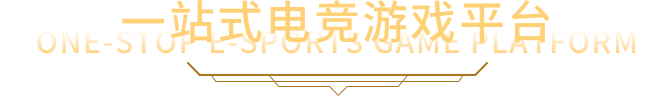
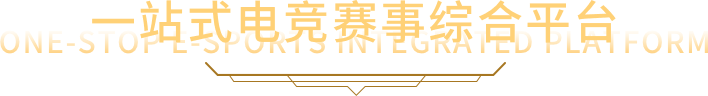
首页文字修改

diff --git a/V2/index.php b/V2/index.php
@@ -31,7 +31,7 @@ $return = curl_post($config['api_get'],json_encode($data),1);
         <div class="width banner_w">
             <div class="theme">
                 <img src="<?php echo $config['site_url'];?>/images/logo_write.png" alt="" class="logo_whole">
-                <span>一站式电竞游戏平台</span>
+                <span>一站式电竞赛事综合平台</span>
                 <div class="download">
                     <a href="<?php echo $return['defaultConfig']['data']['ios_url']['value'];?>" class="download_ios" target="_blank">
                         <img src="<?php echo $config['site_url'];?>/images/download_ios.png" alt="" class="img">
@@ -75,7 +75,7 @@ $return = curl_post($config['api_get'],json_encode($data),1);
         </div>
     </div>
     <div class="platform">
-        <img class="platform_top" src="<?php echo $config['site_url'];?>/images/platform_top.png" alt="">
+        <img class="platform_top" src="<?php echo $config['site_url'];?>/images/platform_top.png?v=1" alt="">
         <img class="platform_logo" src="<?php echo $config['site_url'];?>/images/platform_logo.png" alt="">
         <p class="mess1">获得海南政府批复，以赛事游戏系统为基础，为广大用户发布赛事信息</p>
         <div class="mess2">
